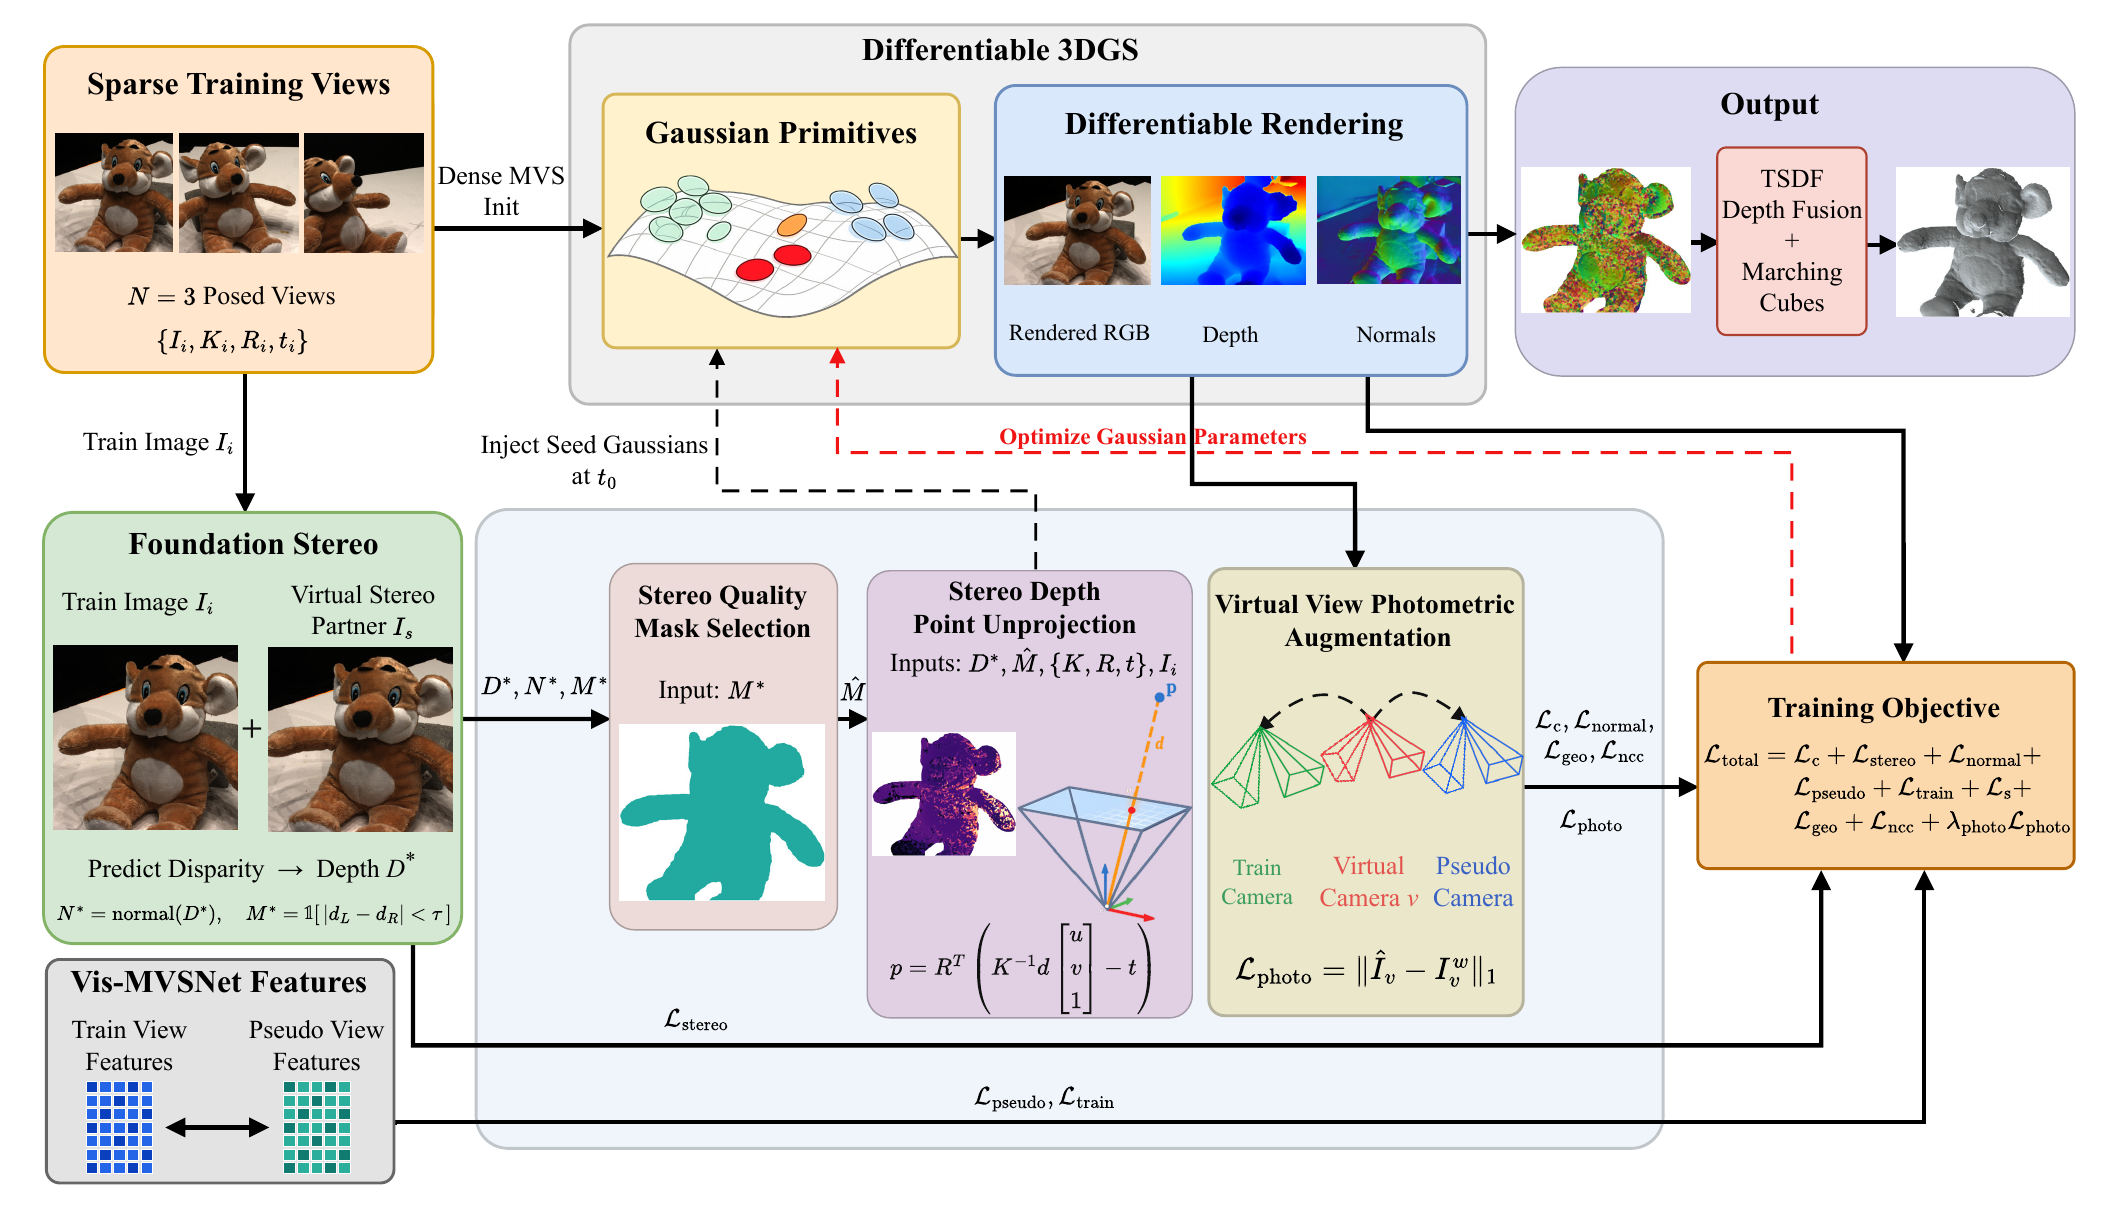
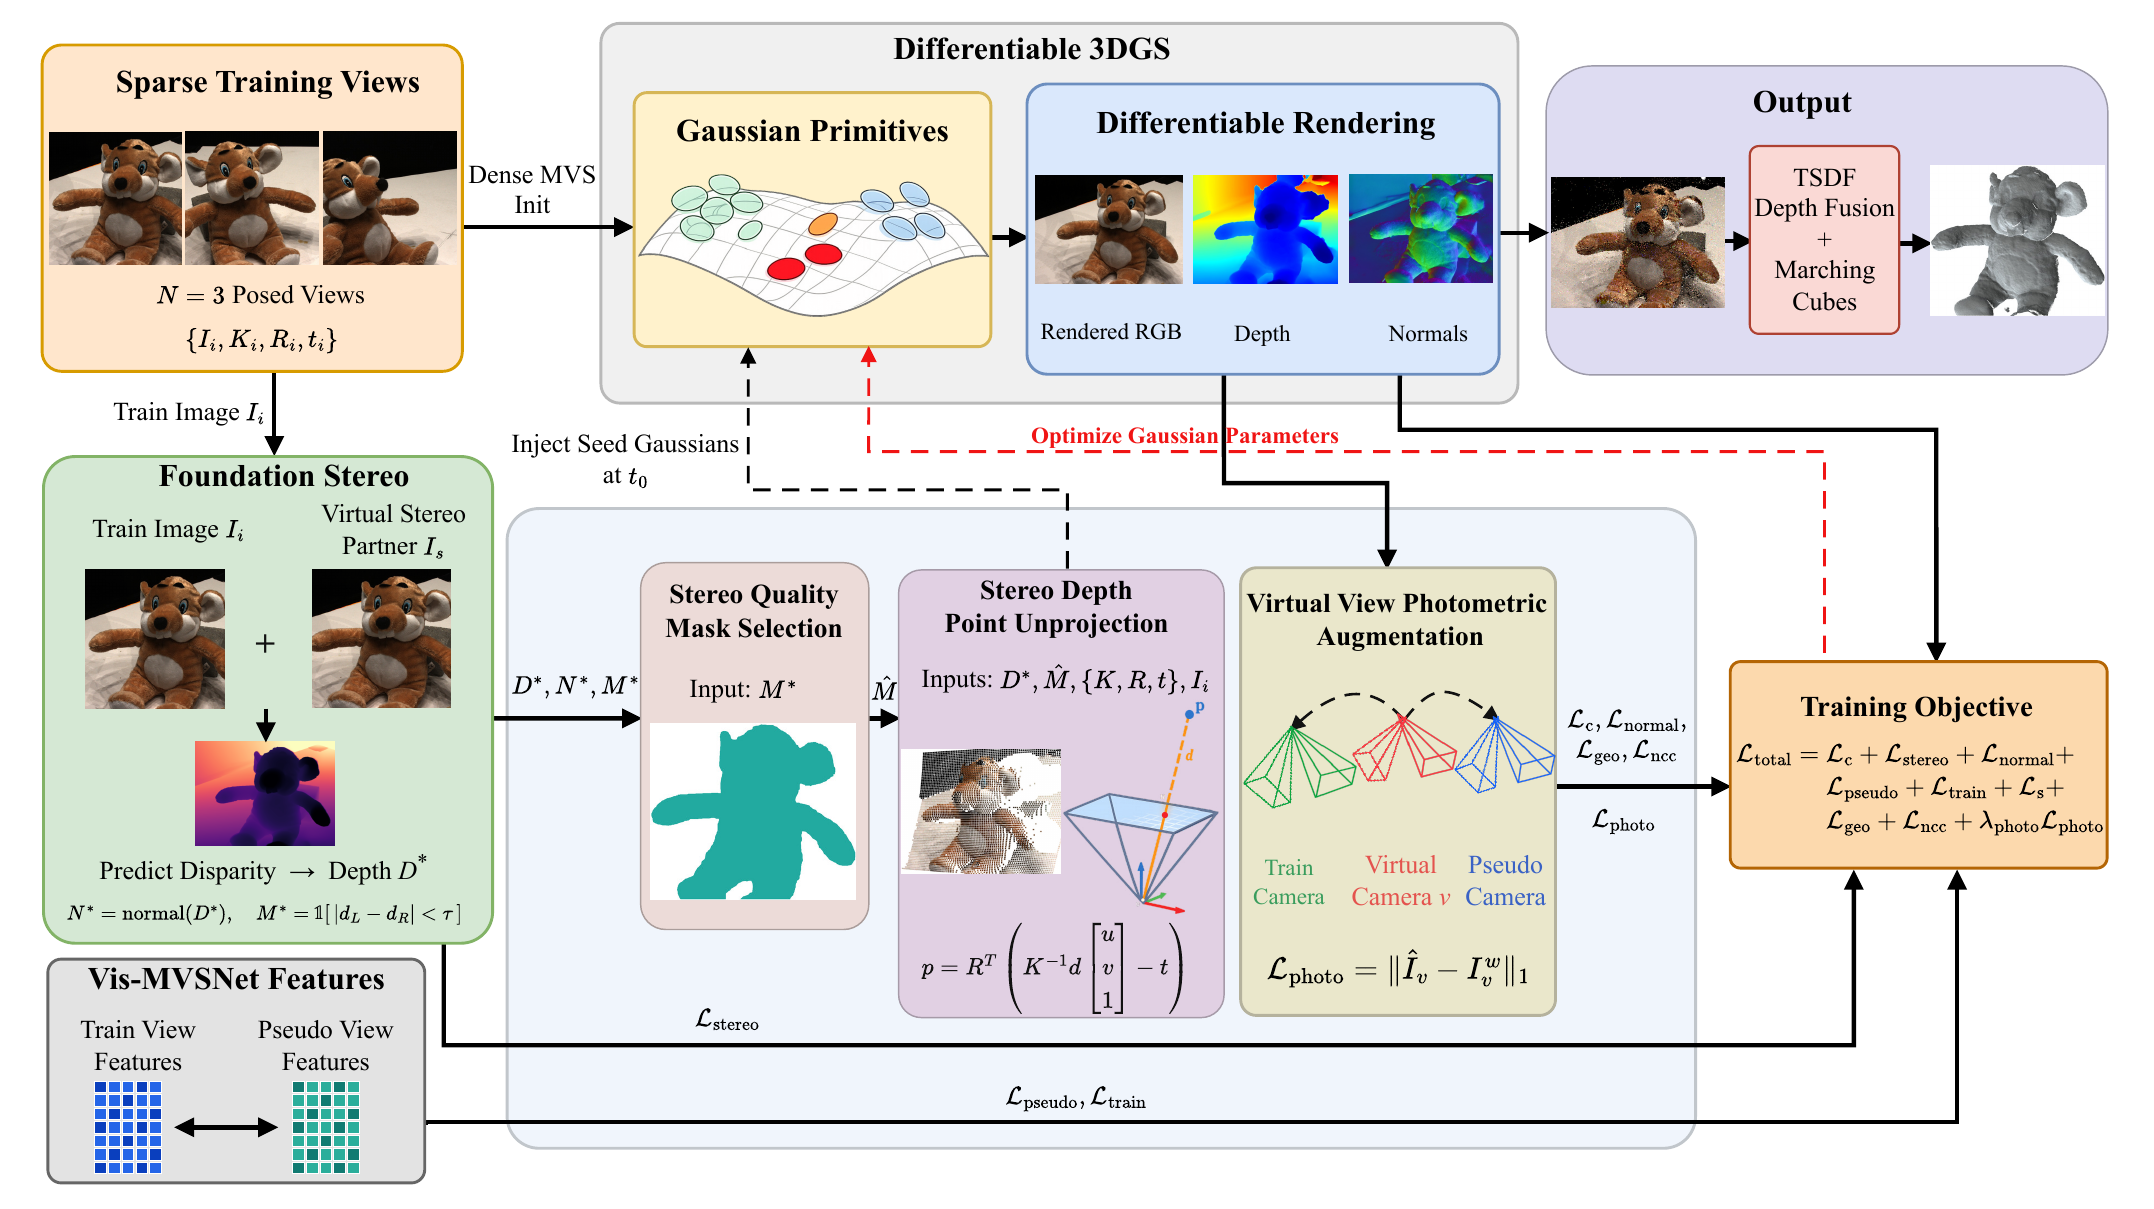
Update architecture figure and abstract

diff --git a/docs/index.html b/docs/index.html
@@ -43,13 +43,13 @@
     <div class="figure-container">
       <img src="static/images/teaser.png" alt="StereoSplat overview" width="100%">
     </div>
-    <p class="caption">Overview of StereoSplat. The dense stereo-depth maps estimated during training are unprojected into 3D seed points and injected as new Gaussian primitives, filtered by a within-view stereo quality mask and complemented by virtual-view photometric augmentation, filling the coverage gaps left by the Structure-from-Motion initialization from only three input views.</p>
+    <p class="caption">Overview of StereoSplat. The dense stereo-depth maps estimated during training are unprojected into 3D seed points and injected as new Gaussian primitives, filtered by a within-view stereo quality mask and complemented by virtual-view photometric augmentation, filling the coverage gaps left by the dense MVS initialization from only three input views.</p>
   </section>
 
   <section class="section">
     <h2>Abstract</h2>
     <p class="abstract-text">
-      Reconstructing three-dimensional (3D) scenes from a few input views remains difficult when dense image acquisition is impractical. Recent sparse-view surface reconstruction methods based on 3D Gaussian Splatting rely on stereo matching to guide optimization; however, the dense metric depth they compute is underexploited, serving merely as a loss signal that adjusts existing primitives. To address this limitation, this study proposes StereoSplat, which converts this overlooked depth into explicit scene geometry and thereby improves novel-view synthesis while preserving or enhancing surface reconstruction. Specifically, Stereo-Depth Point Unprojection lifts dense stereo-depth maps into 3D seed points and injects them as new Gaussian primitives, filling coverage gaps left by the initial Structure-from-Motion point cloud in textureless and occluded regions. To ensure reliability, Stereo Quality Mask Selection retains only points that pass a left-right consistency check. Our analysis further shows that this within-view criterion is preferable to cross-view filtering, as the latter discards genuine surfaces visible from only a single view. In addition, Virtual View Photometric Augmentation enriches supervision by synthesizing virtual viewpoints near the training cameras and comparing the rendered appearance with forward-warped images. On the DTU dataset, StereoSplat attains a PSNR of 22.78 dB on the novel-view synthesis benchmark, surpassing state-of-the-art methods with consistent gains in SSIM, LPIPS, and AVGE. Moreover, surface accuracy is preserved under the large-overlap setting (mean Chamfer distance 0.86 versus 0.89) and improved under the little-overlap setting (0.97 versus 1.05). Overall, these results reveal that initialization coverage, instead of optimization regularization, is the dominant bottleneck in Gaussian-based sparse-view reconstruction.
+      Reconstructing three-dimensional (3D) scenes from a few input views remains difficult when dense image acquisition is impractical. Recent sparse-view surface reconstruction methods based on 3D Gaussian Splatting rely on stereo matching to guide optimization; however, the dense metric depth they compute is underexploited, serving merely as a loss signal that adjusts existing primitives. To address this limitation, this study proposes StereoSplat, which converts this overlooked depth into explicit scene geometry and thereby improves novel-view synthesis while preserving or enhancing surface reconstruction. Specifically, Stereo-Depth Point Unprojection lifts dense stereo-depth maps into 3D seed points and injects them as new Gaussian primitives, filling coverage gaps left by the initial dense multi-view stereo (MVS) point cloud in textureless and occluded regions. To ensure reliability, Stereo Quality Mask Selection retains only points that pass a left-right consistency check. Our analysis further shows that this within-view criterion is preferable to cross-view filtering, as the latter discards genuine surfaces visible from only a single view. In addition, Virtual View Photometric Augmentation enriches supervision by synthesizing virtual viewpoints near the training cameras and comparing the rendered appearance with forward-warped images. On the DTU dataset, StereoSplat attains a PSNR of 22.78 dB on the novel-view synthesis benchmark, surpassing state-of-the-art methods with consistent gains in SSIM, LPIPS, and AVGE. Moreover, surface accuracy is preserved under the large-overlap setting (mean Chamfer distance 0.86 versus 0.89) and improved under the little-overlap setting (0.97 versus 1.05). Overall, these results reveal that initialization coverage, instead of optimization regularization, is the dominant bottleneck in Gaussian-based sparse-view reconstruction.
     </p>
   </section>
 
@@ -74,7 +74,7 @@
     <div class="figure-container">
       <img src="static/images/psnr.png" alt="Per-scan PSNR on DTU" width="100%">
     </div>
-    <p class="caption">Per-scan PSNR on the DTU novel-view synthesis benchmark. StereoSplat improves over the baseline across the majority of scenes, with the largest gains on scenes where the Structure-from-Motion initialization is sparsest.</p>
+    <p class="caption">Per-scan PSNR on the DTU novel-view synthesis benchmark. StereoSplat improves over the baseline across the majority of scenes, with the largest gains on scenes where the dense MVS initialization is sparsest.</p>
   </section>
 
   <section class="section">
